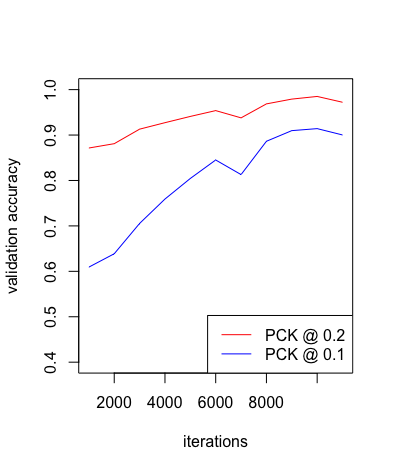
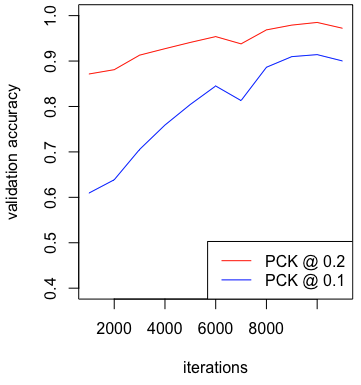
progress

diff --git a/thesis/chapter/05-Experiments.tex b/thesis/chapter/05-Experiments.tex
@@ -438,35 +438,38 @@ Moreover, there were no statistically significant differences found between the 
 Additionally, using context heatmaps does not significantly increase the accuracy of the pose estimator.
 
 \subsubsection{HAR using Penn Action dataset}
-In order to recreate the Human Activity Recognition results from \cite{luvizon_2d/3d_2018} on the Penn Action dataset, we first train a pose estimator, which is later incorporated into the HAR model.
-The authors used a hybrid dataset for training, consisting of $75$ percent MPII and $25$ percent Penn Action training data.
+To recreate the Human Activity Recognition results from \cite{luvizon_2d/3d_2018} on the Penn Action dataset, we first train a pose estimator.
+Once the pose estimator is trained, its pretrained weights are used in the HAR model.
+The authors used a hybrid dataset for training, consisting of $75\%$ MPII and of $25\%$ Penn Action training data.
 They do not, however, motivate this decision.
-The pose estimator contains $4$ prediction blocks, uses $2$ context heatmaps and was trained using a batch size of $30$ and a learning rate of $10^{-3}$.
-The loss, as well as validation accuracy scores achieved on the Penn Action dataset can be seen in \fref{fig:pose_mixed_results}.
+The pose estimator contains $4$ prediction blocks, uses $2$ context heatmaps and it is trained using a batch size of $30$ and a learning rate of $10^{-3}$.
+The validation accuracy scores achieved on the Penn Action validation dataset can be seen in \fref{fig:pose_mixed_results}.
 % TODO: test on test dataset aswell
 % TODO: Discuss results 
 
 \begin{figure}[htb!]
     \centering
-    \includegraphics[width=0.7\textwidth]{pose_mixed_results.png}
-    \caption{Loss and validation accuracies after training the pose estimator using a mixture dataset of MPII and Penn Action.}
+    \includegraphics[width=0.45\textwidth]{pose_mixed_results.png}
+    \caption{Validation accuracies computed during the training of the pose estimator. The training dataset is a mixture of $75\%$ MPII and $25\%$ Penn Action data. The validation accuracies are computed on the validation split of the Penn Action dataset. }
     \label{fig:pose_mixed_results}
 \end{figure}
 
-Afterwards, the pretrained pose estimator is inserted into the HAR model.
-The model is trained using Penn Action data only.
+The pretrained pose estimator weights are inserted into the HAR model after the training process of the pose estimator finished.
+The model is trained using Penn Action training data.
 Also, the weights of the pose estimator are initially frozen.
-This is done in order to find the point in training where the validation accuracies plateaus, at which point the authors unfreeze the weights and lower the learning rate.
-As an optimizer, Stochastic Gradient Descend is used, with the addition of a momentum value $\gamma = 0.98$ and the use of a method called \textit{Nesterov Accelerated Gradient (NAG)} \cite{nesterov_method_1983}.
-Momentum is used to accelarate the gradient descent process by incorporating a fraction $\gamma$ of the previous step size to compute the next step size to take.
-Consider a regular update to the weights $w$ of a neuron using gradient descent, as explained in \sref{sec:gradient_descent}, given by the following formula:
+The HAR model is then trained until the validation accuracies stops increasing, at which point the authors unfreeze the weights of the pose estimator and lower the learning rate.
+The model is then fine-tuned in an end-to-end approach.
+As an optimizer, the Stochastic Gradient Descend is used, with the addition of a momentum value $\gamma = 0.98$ and the use of a method called \textit{Nesterov Accelerated Gradient (NAG)} \cite{nesterov_method_1983}.
+
+Momentum is used to accelarate the gradient descent process by incorporating a fraction $\gamma$ of the previous gradients when computing the new gradients.
+Consider a regular update to the weights $w$ of a neuron using gradient descent, as explained in \sref{sec:gradient_descent}, given by
 
 \begin{equation}
     w_{t+1} = w_t - \eta \nabla w_t,
 \end{equation}
 
-where $\eta$ refers to the learning rate and $\nabla w_t$ contains the gradients computed using the loss function.
-When using momentum, a update term $\nu_t$ is computed in the following way:
+where $\eta$ refers to the learning rate and $\nabla w_t$ refers to the gradients w.r.t. $w_t$.
+When using momentum, a update term $\nu_t$ is computed following
 
 \begin{equation}
     \nu_t = \gamma \nu_{t-1} + \eta \nabla w_t.
@@ -478,16 +481,16 @@ Afterwards, the new weights are computed by subtracting $\nu_t$ from $w_t$:
     w_{t+1} = w_t - \nu_t.
 \end{equation}
 
-The intuition behind momentum is that the descend can be accelerated by incorporating previous descend operations.
-If the descent in a certain direction was used multiple times before, then the assumption is that the descend in a similar direction further descreases the loss.
-This assumption, however, can lead to the case where the minimum of the loss function surpassed.
-To minimize the probability of this happening while still accelerating the descend towards the local minimum, Nesterov Accelerated Gradient adds an additional step to the momentum process.
+The intuition behind momentum is that the descend towards the local minimum of the loss function can be accelerated by assuming that the gradients do not change significantly.
+If gradients with a similar direction were multiple times before, then the assumption is that the next gradients will be similar as well.
+This assumption, however, can lead to the case where the local minimum of the loss function is surpassed, which is often refered to as \textit{overshooting} the minimum.
+To minimize the probability overshooting while still accelerating the descend towards the local minimum, Nesterov Accelerated Gradient adds an additional step to the momentum process.
 It calculates a \textit{look-ahead} weight $w_{la} = w_{t} \gamma \nu_{t-1}$ and evaluates the gradient using this new weight.
-If the gradient at $w_{la}$ points to a different direction than $\gamma \nu_{t-1}$ it will correct the surpassing of the minimum to an extend by reducing the overall magnitude of the step taken.
+If the gradient at $w_{la}$ points to a different direction than $\gamma \nu_{t-1}$ it will correct the surpassing of the minimum to an extend by reducing changing the direction of the gradient slighlty.
 The following formula describes the update process of weights $w_t$ using the NAG:
 
 \begin{equation}
-    w_{t+1} = w_t - \gamma \nu_{t-1} - \eta \nabla w_{la}.
+    w_{t+1} = w_t - (\gamma \nu_{t-1} + \eta \nabla w_{la}).
 \end{equation}
 
 In the experiment conducted in this thesis, the validation does not increase after the TODO iteration
@@ -512,25 +515,31 @@ A learning rate of $2^{-5}$ is used, as suggested by the authors in their work.
 \label{sec:exp-pose-jhmdb}
 Similar to the experiment performed in \sref{sec:exp-replication}, this thesis evaluates different pose estimator configurations using the JHMDB dataset.
 Specifically, pose estimators with $2, 4$ and $8$ prediction blocks are trained with and without context heatmaps to assess the performance of the network on a more challenging video dataset in terms of action diversity.
-In terms of pose estimator architecture, there are no changes to the experiments on the MPII dataset.
-The pose estimators are trained using an augmentation ratio of $1:6$.
-This increase in ratio from the $1:3$ used in the MPII pose estimation experiment is necessary due to the smaller size of the JHMDB dataset, in order to make the training process more stable.
-The test accuracies, computed on the JHMDB test split, are shown for each configuration in \tref{tab:jhmdb_results}.
+In terms of the pose estimator architecture, there are no changes to the experiments on the MPII dataset.
 
-% TODO: Explain why 8 prediction block results are so bad
+One assumption this thesis makes is that the ground truth bounding boxes for training, validation and test datasets are given.
+This assumption was also made by \cite{luvizon_2d/3d_2018} for training and evaluating the pose estimator on the MPII dataset.
+The accuracies, computed using three different metrics, are shown in \tref{tab:jhmdb_results}.
+As can be seen, the best performing pose estimator configuration is $4$ prediction blocks and $0$ context heatmaps.
+Notice that the test accuracies when using $8$ prediction blocks are significantly lower in comparison to the other configurations.
+This is most likely due to the limited amount of data of the JHMDB dataset.
+This hypothesis is supported by the fact that the accuracies when using context heatmaps are lower, in comparison to not using context heatmaps.
+Context heatmaps introduce additional parameters to the pose estimator model, which need to be trained.
+In general, the higher the number of parameters of a model, the more training data is needed to fit the model.
 
 \begin{table}[]
     \small
     \centering
-    \begin{tabular}{|l|c|c|c|c|c|c|}
+    \begin{tabular}{|l|c|c|c||c|c|c||c|c|c|}
     \hline
-        \textbf{nr\_blocks} & 2 & 2 & 4 & 4 & 8 & 8 \\ \hline
-        \textbf{nr\_context} & 0 & 2 & 0 & 2 & 0 & 2 \\ \hline
-        \textbf{PCK @ 0.2} & \textbf{96.23} & 94.99 & 96.21 & 95.55 & 76.01 & 75.80 \\ \hline
-        \textbf{PCK @ 0.1} & 90.84 & 89.42 & \textbf{90.98} & 90.33 & 53.30 & 55.46 \\ \hline
-        \textbf{PCKu @ 0.2} & 87.34 & 86.57 & \textbf{87.60} & 87.14 & 46.01 & 47.86 \\ \hline
+        & & & \textbf{p-value} & & & \textbf{p-value} & & & \textbf{p-value} \\ \hline
+        \textbf{nr\_blocks} & 2 & 2 &  & 4 & 4 &  & 8 & 8 &  \\ \hline
+    \textbf{nr\_context} & 0 & 2 & & 0 & 2 & & 0 & 2 &\\ \hline
+        \textbf{PCK @ 0.2} & 96.85 & 95.61 & \textbf{0.0} & \textbf{96.94} & 96.06 & \textbf{0.0} & 74.95 & 75.47 & 0.408 \\ \hline
+        \textbf{PCK @ 0.1} & \textbf{92.03} & 90.20 & \textbf{0.0} & 91.69 & 90.95 & 0.072 & 50.13 & 52.14 & \textbf{0.005} \\ \hline
+        \textbf{PCKu @ 0.2} & 87.32 & 86.21 & \textbf{0.031} & \textbf{87.49} & 86.92 &  0.224 & 44.03 & 45.30 & 0.085 \\ \hline
     \end{tabular}
-    \caption{Test accuracies of the different pose estimator configurations, computed on the JHMDB test set. PCK is computed for two threshold values, $\alpha = 0.2$ as well as $\alpha = 0.1$. Additionally, PCKu is computed using $\alpha = 0.2$. Maximum values per metric are shown in bold.}
+    \caption{Test accuracies of the different pose estimator configurations, computed on the JHMDB test set. PCK is computed for two threshold values, $\alpha = 0.2$ as well as $\alpha = 0.1$. Additionally, PCKu is computed using $\alpha = 0.2$. Maximum values per metric, as well as $p$-values below the significance level of $0.05$, are shown in bold.}
     \label{tab:jhmdb_results}
 \end{table}
 
@@ -538,19 +547,16 @@ The test accuracies, computed on the JHMDB test split, are shown for each config
 \begin{table}[]
     \small
     \centering
-    \begin{tabular}{|l|l|c|c|}
-    \hline
-        \textbf{nr\_blocks} & \textbf{nr\_context}  & \textbf{PCK @ 0.1} & \textbf{p-value} \\ \hline
-        \begin{tabular}{@{}c@{}} 2 \\ 2 \end{tabular} & \begin{tabular}{@{}c@{}} 0 \\ 2 \end{tabular} & \begin{tabular}{@{}c@{}} 90.84 \\ 89.42  \end{tabular} & \textbf{0.0016}  \\ \hline
-    
-        \begin{tabular}{@{}c@{}} 4 \\ 4 \end{tabular} & \begin{tabular}{@{}c@{}} 0 \\ 2 \end{tabular} & \begin{tabular}{@{}c@{}} 90.98 \\ 90.33  \end{tabular} & 0.127  \\ \hline
-
-        \begin{tabular}{@{}c@{}} 2 \\ 4 \end{tabular} & \begin{tabular}{@{}c@{}} 0 \\ 0 \end{tabular} & \begin{tabular}{@{}c@{}} 90.84 \\ 90.98  \end{tabular} & 0.748  \\ \hline
-
-        \begin{tabular}{@{}c@{}} 2 \\ 4 \end{tabular} & \begin{tabular}{@{}c@{}} 2 \\ 2 \end{tabular} & \begin{tabular}{@{}c@{}} 89.41 \\ 90.33  \end{tabular} & \textbf{0.037}  \\ \hline
-
-    \end{tabular}
-    \caption{Different model configurations for estimating pose on the JHMDB dataset, with their corresponding PCK accuracy values, estimated on the test set using $\alpha = 0.1$. The configurations using $8$ prediction blocks are ommited because the results are significantly worse in comparion to the other configurations. The $p$-values were computed using a randomization test. $p$-values below the significance level of $0.05$ are shown in bold, indicating that the change in accuracy is significant.}
+    \begin{tabular}{|l|c|c|c||c|c|c|}
+        \hline
+            & & & \textbf{p-value} & & & \textbf{p-value} \\ \hline
+            \textbf{nr\_blocks} & 2 & 4 &  & 2 & 4 &  \\ \hline
+            \textbf{nr\_context} & 0 & 0 & & 2 & 2 & \\ \hline
+            \textbf{PCK @ 0.2} & 96.85 & \textbf{96.94} & 0.689 & 95.61 & 96.06 & 0.121 \\ \hline
+            \textbf{PCK @ 0.1} & \textbf{92.03} & 91.69 & 0.396 & 90.20 & 90.95 & 0.089 \\ \hline
+            \textbf{PCKu @ 0.2} & 87.32 & \textbf{87.49} & 0.742 & 86.21 & 86.92 & 0.164 \\ \hline
+        \end{tabular}
+    \caption{Different model configurations for estimating pose on the JHMDB dataset, with their corresponding accuracy values. The configurations using $8$ prediction blocks are ommited because the results are significantly worse in comparion to the other configurations. The $p$-values were computed using a randomization test. None of the $p$-values are below the significance level of $0.05$.}
     \label{tab:jhmdb_results_confidence}
 \end{table}
 
@@ -565,9 +571,9 @@ The test accuracies, computed on the JHMDB test split, are shown for each config
         \textbf{Head top} & \textbf{Wrist (r)} & \textbf{Elbow (r)} & \textbf{Shoulder (r)} & \textbf{Shoulder (l)} & \textbf{Elbow (l)} & \textbf{Wrist (l)} & \textbf{Total} \\ \hline
         0.97 & 0.83  & 0.87 & 0.89 & 0.89 & 0.82 & 0.82 & 0.91 \\ \hline \hline
         \textbf{Arms (l)} & \textbf{Arms (r)} & \textbf{Arms (both)} & \textbf{Legs (l)} & \textbf{Legs (r)} & \textbf{Legs (both)} & \textbf{Upper body} & \textbf{Lower body}  \\ \hline
-        0.84 & 0.86 & 0.85 & 0.85 & 0.87 & 0.86 & 0.88 & 0.87 \\ \hline \hline
+        0.84 & 0.86 & 0.85 & 0.85 & 0.87 & 0.86 & 0.88 & 0.87 \\ \hline
     \end{tabular}}
-    \caption{Per joint accuracy, computed on the JHMDB test set using PCK @ 0.1 meassure. In addition, aggregated accuracy values are given in the third row for different sets of joints. \textit{Arms} for both left and right are computed by taking the average of the shoulder, elbow and wrist accuracies. \textit{Legs} are computed the same way, using knee, ankle and hip accuracy values. For \textit{Upper body}, upper neck and head top are added to both \textit{Arms} aggregations. \textit{Lower body} is computed by aggregating both \textit{legs} accuracies as well as pelvis.}
+    \caption{Per joint accuracy w.r.t. PCK @ 0.1, computed on the JHMDB test set using $4$ prediction blocks and $0$ context heatmaps. In addition, aggregated accuracy values are given in the third row for different sets of joints. \textit{Arms} for both left and right are computed by taking the average of the shoulder, elbow and wrist accuracies. \textit{Legs} are computed the same way, using knee, ankle and hip accuracy values. For \textit{Upper body}, upper neck and head top are added to both \textit{Arms} aggregations. \textit{Lower body} is computed by aggregating both \textit{legs} accuracies as well as pelvis.}
     \label{tab:jhmdb-perjoint}
 \end{table}
 % TODO: Rephrase caption above so that it is not identical
